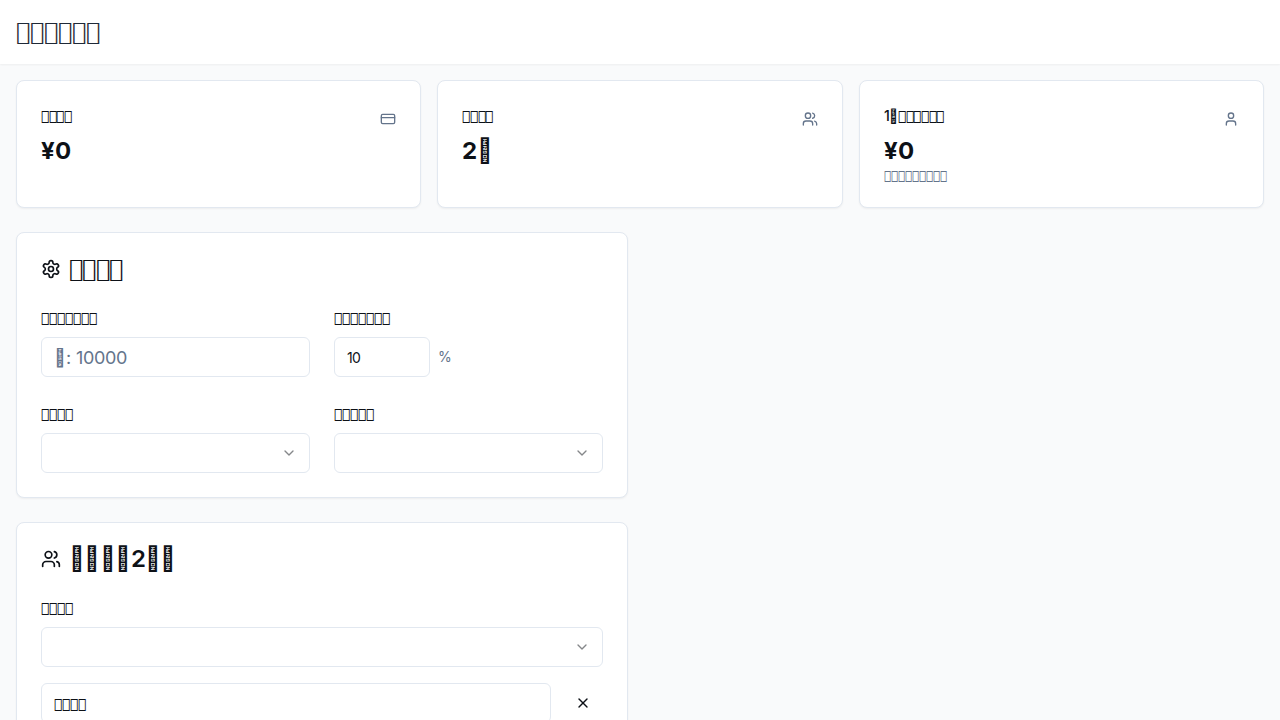
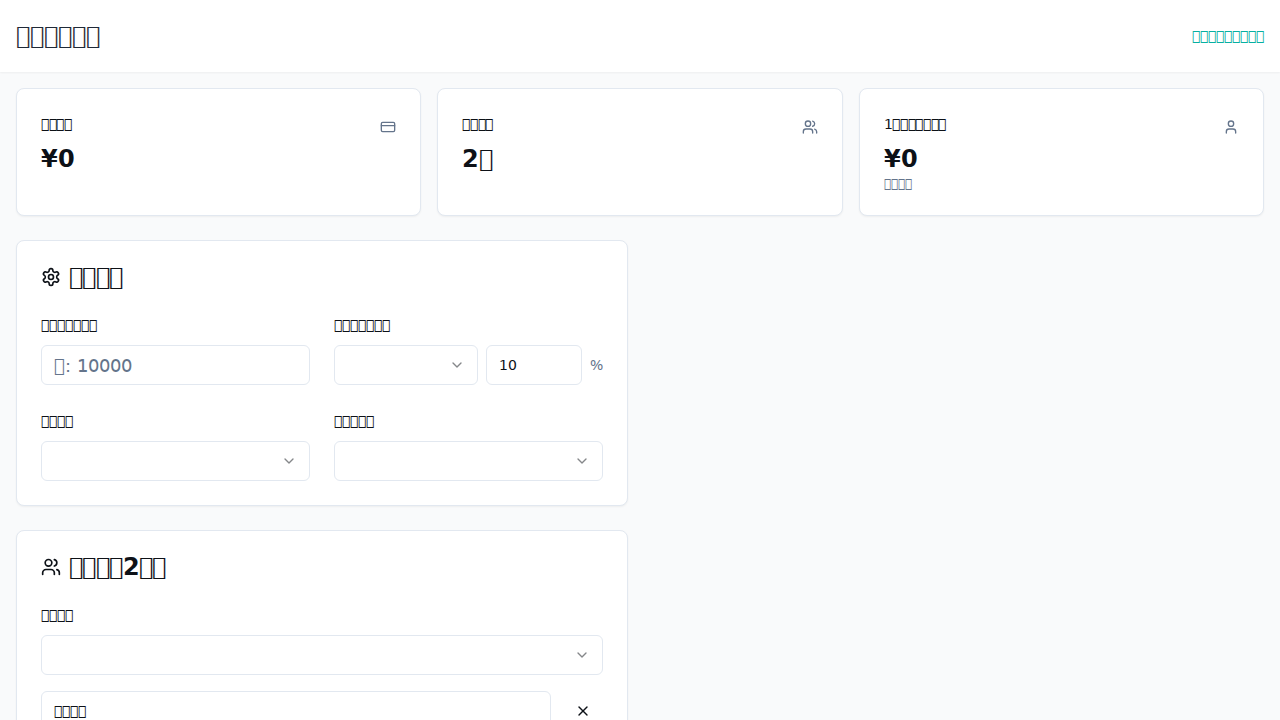
fix: Address PR feedback
- Refactors the "Calculate" button to use a color from `global.css`.
- Adds icons to the result cards.

diff --git a/src/app/page.tsx b/src/app/page.tsx
@@ -2,7 +2,7 @@
 
 import { Fragment, useEffect, useState } from 'react'
 import Link from 'next/link'
-import { Calculator, Users, Settings, Share2, Download, X, CreditCard, User } from 'lucide-react'
+import { Calculator, Users, Settings, Share2, Download, X, CreditCard, User, FileText, ClipboardCheck } from 'lucide-react'
 import { Button } from '@/components/ui/button'
 import { Input } from '@/components/ui/input'
 import { Card, CardContent, CardDescription, CardHeader, CardTitle } from '@/components/ui/card'
@@ -420,7 +420,7 @@ export default function Home() {
             <Button asChild variant="outline" className="w-full">
               <Link href="/confirm">入力内容確認</Link>
             </Button>
-            <Button onClick={handleCalculate} size="lg" className="w-full bg-green-500 hover:bg-green-600 text-white">
+            <Button onClick={handleCalculate} size="lg" className="w-full btn-primary-green">
               <Calculator className="h-5 w-5 mr-2" />
               計算する
             </Button>
@@ -430,7 +430,10 @@ export default function Home() {
               <Card>
                 <CardHeader>
                   <CardTitle className="flex items-center justify-between">
-                    計算結果
+                    <div className="flex items-center gap-2">
+                      <FileText className="h-5 w-5" />
+                      計算結果
+                    </div>
                     <div className="flex gap-2">
                       <Button variant="outline" size="sm" onClick={handleShare}>
                         <Share2 className="h-4 w-4 mr-2" />
@@ -468,7 +471,10 @@ export default function Home() {
             {result && result.settlements.length > 0 && (
               <Card>
                 <CardHeader>
-                  <CardTitle>清算結果</CardTitle>
+                  <CardTitle className="flex items-center gap-2">
+                    <ClipboardCheck className="h-5 w-5" />
+                    清算結果
+                  </CardTitle>
                 </CardHeader>
                 <CardContent>
                   <div className="space-y-3">

diff --git a/src/app/globals.css b/src/app/globals.css
@@ -86,4 +86,8 @@
       @apply px-4;
     }
   }
-} 
+
+  .btn-primary-green {
+    @apply bg-green-500 text-white hover:bg-green-600;
+  }
+}
